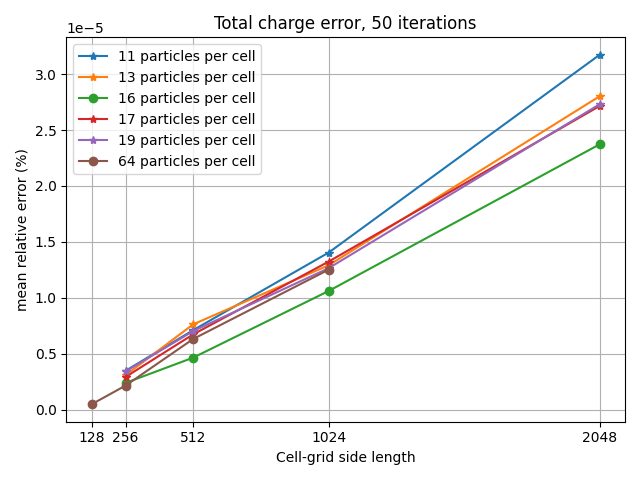
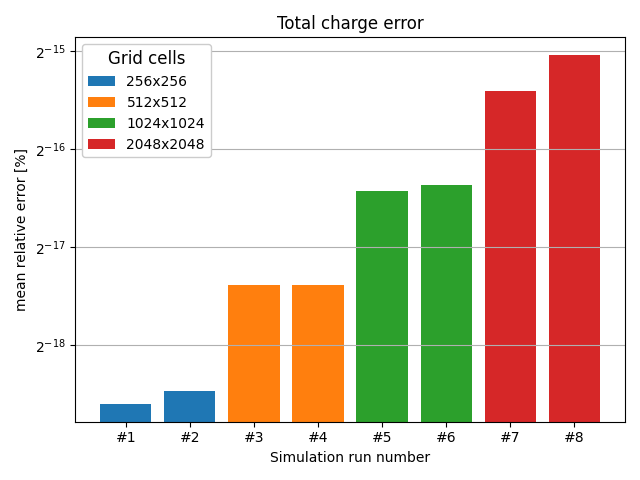
Organize plots by runs
Each run is numbered and plotted accordingly and on a log scale. Each configuration is grouped by color and shown in the legend.

diff --git a/validation_2/report.py b/validation_2/report.py
@@ -1,6 +1,7 @@
 import argparse
 import csv
 from pathlib import Path
+import re
 
 import numpy as np
 import matplotlib.pyplot as plt
@@ -10,7 +11,7 @@ def get_data(filepath: Path):
     with open(filepath) as file:
         reader = csv.reader(file, quoting=csv.QUOTE_NONNUMERIC)
         rows = [row for row in reader]
-        data: list[list[int]] = rows[1:]
+        data: list[list[int|float]] = rows[1:]
     return data
 
 
@@ -20,138 +21,74 @@ def main():
     parser.add_argument('directory', type=Path)
     parser.add_argument('version', type=str)
     parser.add_argument('distribution', type=str)
-    parser.add_argument('particles_per_cell', type=int, action="extend", nargs="+")
     args = parser.parse_args()
     # Grid parameters with ghost cells included.
     directory: Path = args.directory
     version: str = args.version
     distribution: str = args.distribution
-    particles_per_cell: list[int] = args.particles_per_cell
 
-    run_data = []
+    filename_pattern = f'{version}_{distribution}_*.csv'
+    nonrandom_filename_pattern = f'{version}_{distribution}_nonrandom_*.csv'
+    filepaths_generator = directory.glob(filename_pattern)
+    nonrandom_filepaths_generator = directory.glob(nonrandom_filename_pattern)
+    nonrandom_filepaths = [p for p in nonrandom_filepaths_generator]
+    # Exclude nonrandom from filepaths
+    filepaths = [p for p in filepaths_generator if p not in nonrandom_filepaths]
 
-    for ppc in particles_per_cell:
-        filename = f'{version}_{distribution}_{ppc}ppc.csv'
-        filepath = directory / filename
-        file_data = get_data(filepath)
-        data = {}
-        current_dim = ''
-        iteration = 0
-        # Parse rows into a dictionary.
-        for row in file_data:
-            dim = f'{int(row[0])}x{int(row[1])}'
-            if dim != current_dim:
-                current_dim = dim
-                data[dim] = {}
-                data[dim]['dim_x'] = row[0]
-                data[dim]['dim_y'] = row[1]
-                data[dim]['particles'] = row[3]
-                data[dim]['expected'] = row[4]
-                data[dim]['computed'] = []
-            data[dim]['computed'].append(row[5])
-            iteration = int(row[2])
+    data_per_dim = {}
+    for path in filepaths:
+        match: re.Match = re.search(r'(\d+)x(\d+)[\D]+(\d+)', path.stem)
+        dim_x = int(match.group(1))
+        dim_y = int(match.group(2))
+        run_index = int(match.group(3))
 
-        iteration_count = iteration + 1
+        data = get_data(path)
+        iteration_count = len(data)
+        expected: int = data[0][1]
+        computed_values = np.array([float(row[2]) for row in data])
+        relative_errors = np.mean(abs(1 - computed_values / expected))
+        mean_relative_errors = np.mean(relative_errors)
 
-        # Compute error.
-        print(f'Relative error ({ppc} particles per cell)')
-        for v in data.values():
-            v['computed'] = np.array(v['computed'])
-            v['error'] = np.abs(v['computed'] - v['expected'])
-            v['error_max'] = np.max(v['error'])
-            v['error_mean'] = np.mean(v['error'])
-            v['error_relative'] = v['error_mean'] / v['expected']
-            print(f"  {v['dim_x']}x{v['dim_y']}: {v['error_mean'] / v['expected']}")
-        run_data.append(data)
-        # Plot
-        ticks = np.arange(len(data))
-        bar_width = 0.25
-        bar_labels = [k for k in data]
-        bar_expected = [v['expected'] for v in data.values()]
-        bar_max = np.divide([v['error_max'] for v in data.values()], bar_expected)
-        bar_mean = np.divide([v['error_mean'] for v in data.values()], bar_expected)
+        dim = f'{dim_x}x{dim_y}'
+        if (dim not in data_per_dim):
+            data_per_dim[dim] = []
+        data_per_dim[dim].append({
+            'dim_x': dim_x,
+            'dim_y': dim_y,
+            'index': run_index,
+            'error': mean_relative_errors
+        })
 
-        def log2(x):
-            f = lambda x : -np.log2(np.abs(x)) if x != 0 else 0
-            try:
-                return [f(v) for v in x]
-            except TypeError:
-                return f(x)
+    # Sort the dimensions by run index so that the legend is ordered.
+    sort_key = lambda data: (data[1][0]['index'])
+    data_sorted = sorted(data_per_dim.items(), key=sort_key)
 
-        fig, ax = plt.subplots()
-        ax.bar(ticks - bar_width / 2, log2(bar_max), bar_width, label='Max')
-        ax.bar(ticks + bar_width / 2, log2(bar_mean), bar_width, label=f'Mean')
+    for dim, data in data_sorted:
+        a, b = sorted({ item['index']: item['error'] for item in data }.items())
+        print(f'{a[0]}: {a[1]}')
+        print(f'{b[0]}: {b[1]}')
 
-        ax.set_xlabel('Cell configuration')
-        ax.set_xticks(ticks)
-        ax.set_xticklabels(bar_labels)
-        ax.set_ylabel('-log2(relative error)')
-        ax.set_title(f'Total charge error, {iteration_count} iterations, {ppc} particles per cell')
-        ax.grid(True, axis='y')
-        ax.legend()
-        fig.tight_layout()
-
-    is_pow2 = lambda n : (n & (n - 1) == 0) and n != 0
-
-    # Combined log plot.
-    ticks = set()
     fig, ax = plt.subplots()
-    for ppc, data in zip(particles_per_cell, run_data):
-        # Only show square grid configurations
-        are_square = np.all([v['dim_x'] == v['dim_y'] for v in data.values()])
-        if not are_square:
-            continue
-        
-        #x = [np.log2(v['dim_x']) for v in data.values()]
-        x = [np.log2(v['dim_x']**2) for v in data.values()]
-        for tick in x:
-            ticks.add(int(tick))
-        y = [-np.log2(v['error_relative']) for v in data.values()]
-        style = 'o-' if is_pow2(ppc) else '*-'
+    bar_width = 0.8
+    for dim, data in data_sorted:
+        x = [item['index'] for item in data]
+        y = [item['error']*100 for item in data]
+        ax.bar(x, y, bar_width, label=dim)
 
-        ax.plot(x, y, style, label=f'{ppc} particles per cell')
-    
-    #ticks = sorted(ticks)
-    #labels = [f'{2**tick}x{2**tick}' for tick in ticks]
-    #ax.set_xticks(ticks)
-    #ax.set_xticklabels(labels)
-    #ax.set_xlabel('Cell configuration')
-    ax.set_xlabel('log2(number of cells)')
-    ax.set_ylabel('-log2(mean relative error)')
-    ax.set_title(f'Total charge error, {iteration_count} iterations')
-    ax.legend()
-    ax.grid(True)
+    x_ticks = [item['index'] for data in data_per_dim.values() for item in data]
+    x_tick_labels = [f'#{tick}' for tick in x_ticks]
+    ax.set_xticks(x_ticks)
+    ax.set_xticklabels(x_tick_labels)
+    ax.set_yscale('log', base=2)
+    ax.set_xlabel('Simulation run number')
+    ax.set_ylabel('mean relative error [%]')
+    ax.set_title(f'Total charge error')
+    legend = ax.legend(title='Grid cells', framealpha=1)
+    legend.get_title().set_fontsize('large')
+    ax.grid(True, axis='y')
     fig.tight_layout()
 
-    # Percentage plot.
-    ticks = set()
-    fig, ax = plt.subplots()
-    for ppc, data in zip(particles_per_cell, run_data):
-        # Only show square grid configurations
-        are_square = np.all([v['dim_x'] == v['dim_y'] for v in data.values()])
-        if not are_square:
-            continue
-        
-        x = [v['dim_x'] for v in data.values()]
-        for tick in x:
-            ticks.add(int(tick))
-        y = [v['error_relative']*100 for v in data.values()]
-        style = 'o-' if is_pow2(ppc) else '*-'
-
-        ax.plot(x, y, style, label=f'{ppc} particles per cell')
-    
-    ticks = sorted(ticks)
-    labels = [f'{tick}' for tick in ticks]
-    ax.set_xticks(ticks)
-    ax.set_xticklabels(labels)
-    ax.set_xlabel('Cell-grid side length')
-    ax.set_ylabel('mean relative error (%)')
-    ax.set_title(f'Total charge error, {iteration_count} iterations')
-    ax.legend()
-    ax.grid(True)
-    fig.tight_layout()
     plt.show()
-    
 
 
 if __name__ == '__main__':
